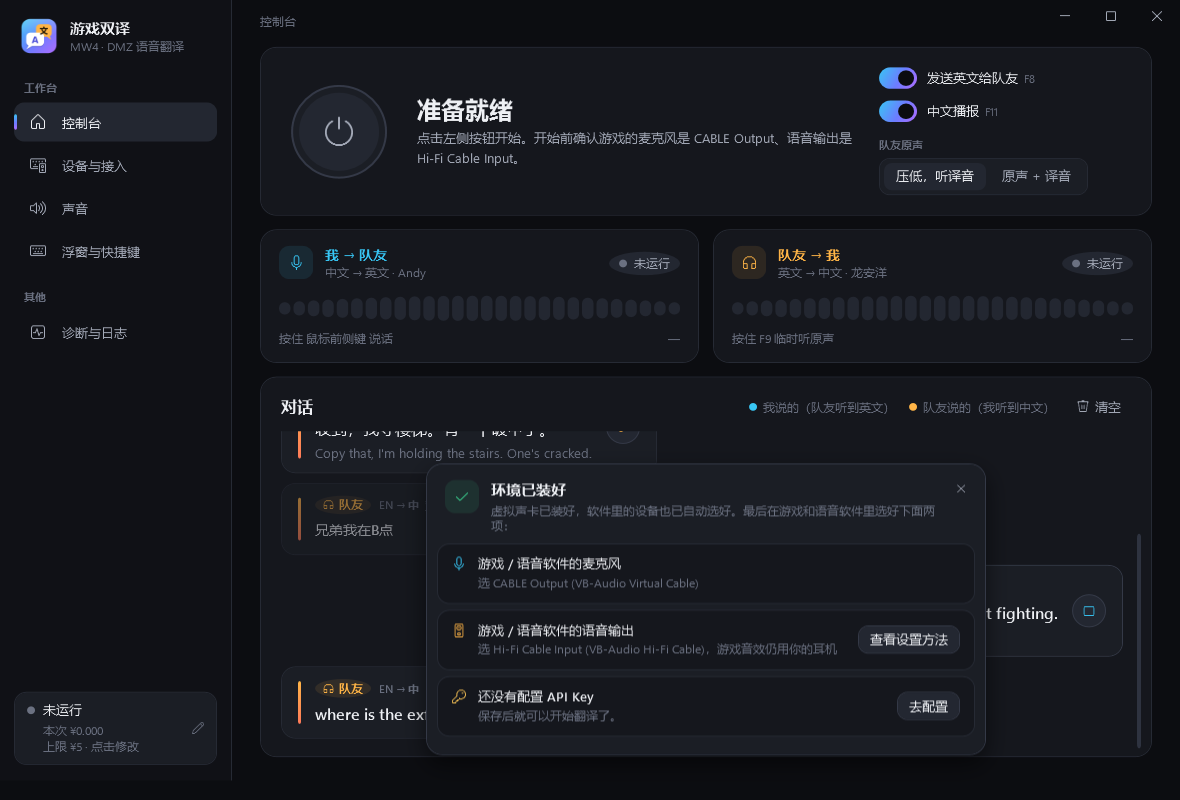
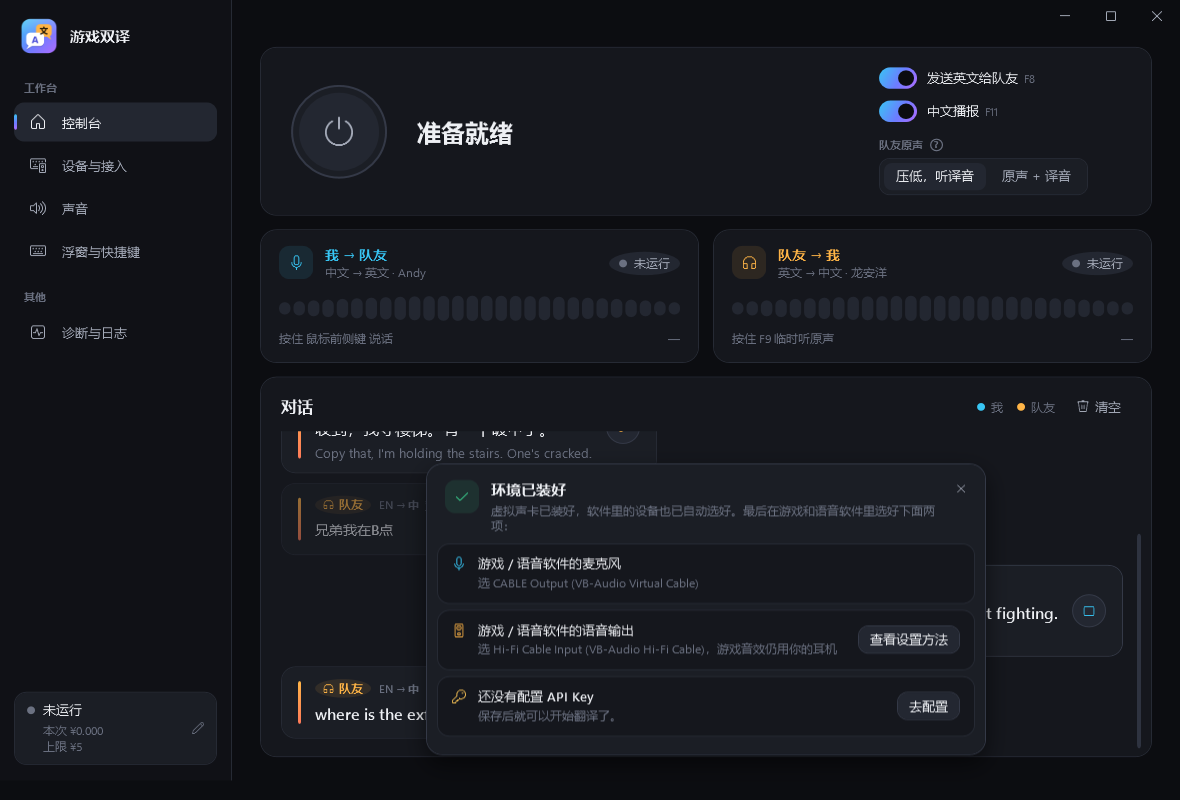
1.0.1：更新日志、版本号、README 截图与识别模型说明

diff --git a/CHANGELOG.md b/CHANGELOG.md
@@ -1,5 +1,19 @@
 # 更新日志
 
+## [1.0.1] - 2026-11-24
+
+### 识别更准
+- 队友说话改用 `qwen3-asr-flash-realtime` 识别：对口音重、经过游戏语音压缩的英文明显更准（用一整晚的真实对局录音逐句对比过）。不再强制英文，队里有人说中文时会原样认出来，只显示不播报，不会被硬转成英文乱码
+- “设备与接入 → 翻译方式”可以分别选择“识别队友的话”和“识别我的中文”用的模型（Qwen3-ASR / Fun-ASR），下次点开始生效
+- 被识别成中英文以外语种的噪声片段不再播报
+
+### 翻译不脑补
+- 队友只说了半句时，不再替对方把话补完整（例如凭空补出“撤离点”）：译文出现原话没有的游戏词会自动重翻，仍有则标为“可能是”
+
+### 界面更简洁
+- 去掉页面副标题和各项下面的说明小字，必要的说明收进标题旁的“?”，鼠标悬停时显示
+- 关闭窗口时的选择、翻译引擎、浮窗设置等文字更短
+
 ## [1.0.0] - 2026-11-23
 
 首个公开版本。
@@ -18,4 +32,5 @@
 - 崩溃守护：主程序意外退出时自动恢复队友原声
 - 安装包：自带 .NET 运行环境，无需管理员权限
 
+[1.0.1]: https://github.com/FlippySun/GameVoiceTranslator/releases/tag/v1.0.1
 [1.0.0]: https://github.com/FlippySun/GameVoiceTranslator/releases/tag/v1.0.0

diff --git a/README.md b/README.md
@@ -51,7 +51,7 @@
 游戏音效：直接走游戏自己的输出设备到耳机，不经过本软件。
 ```
 
-云端服务全部使用 **阿里云百炼（北京）**：`fun-asr-realtime` 实时识别（带游戏热词）、`qwen-flash` 翻译、`qwen3-tts-flash` / `qwen-audio-3.1-tts-flash` 合成。
+云端服务全部使用 **阿里云百炼（北京）**：`qwen3-asr-flash-realtime`（队友英文，自动判断语种）和 `fun-asr-realtime`（我的中文，带游戏热词）实时识别、`qwen-flash` 翻译、`qwen3-tts-flash` / `qwen-audio-3.1-tts-flash` 合成。
 平均每句从说完到对方开始听到约 **0.8 秒**。
 
 ## 📦 下载与安装
